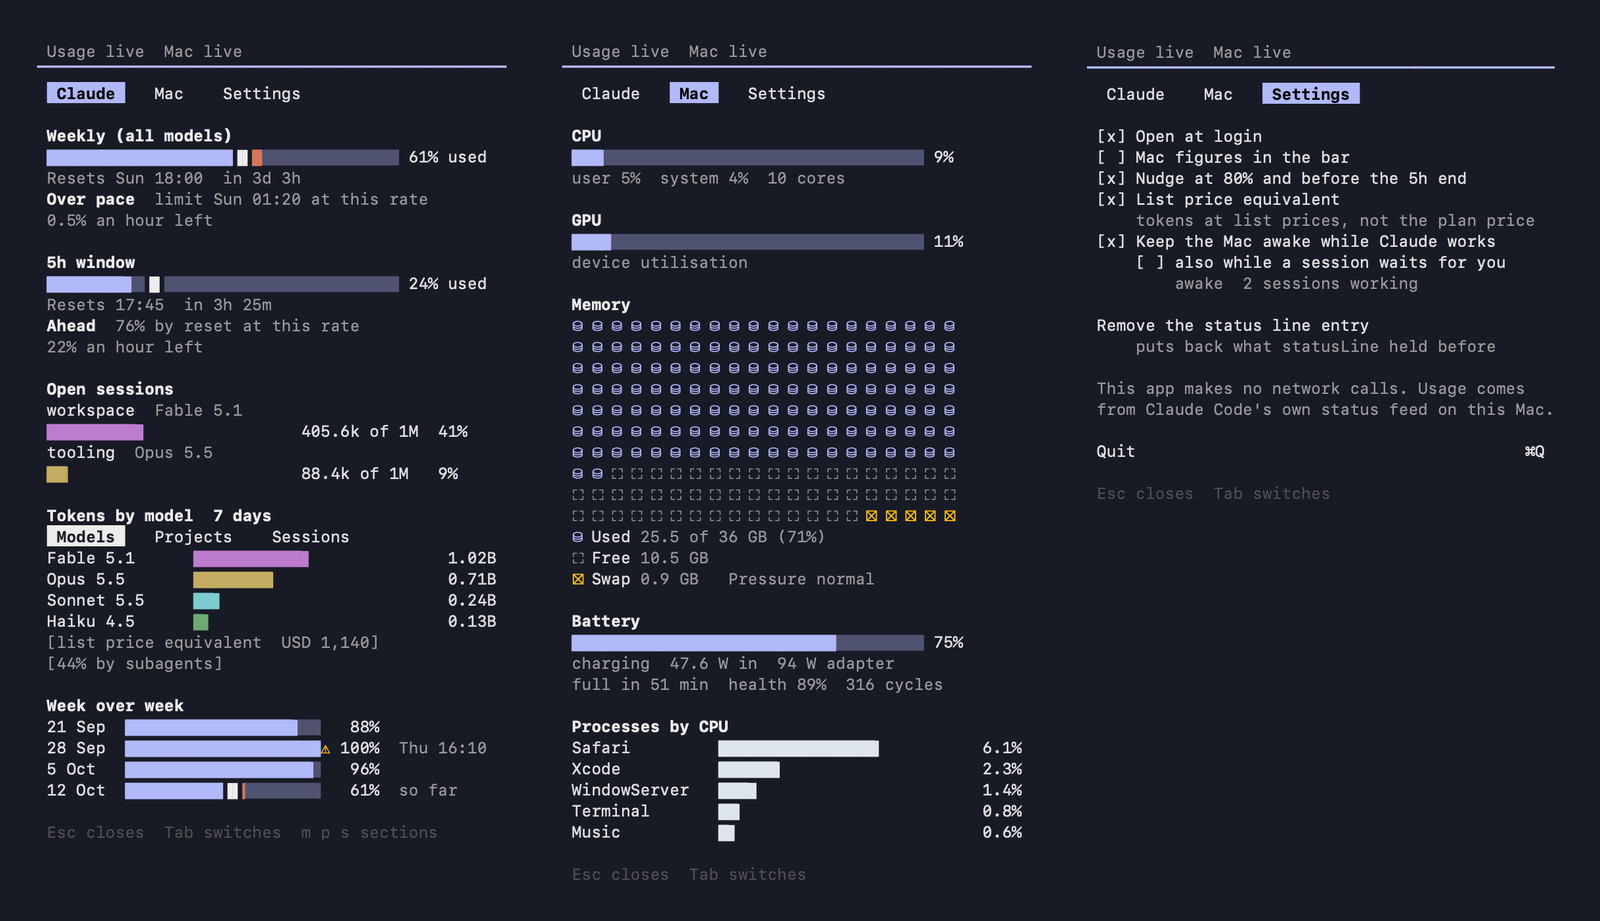
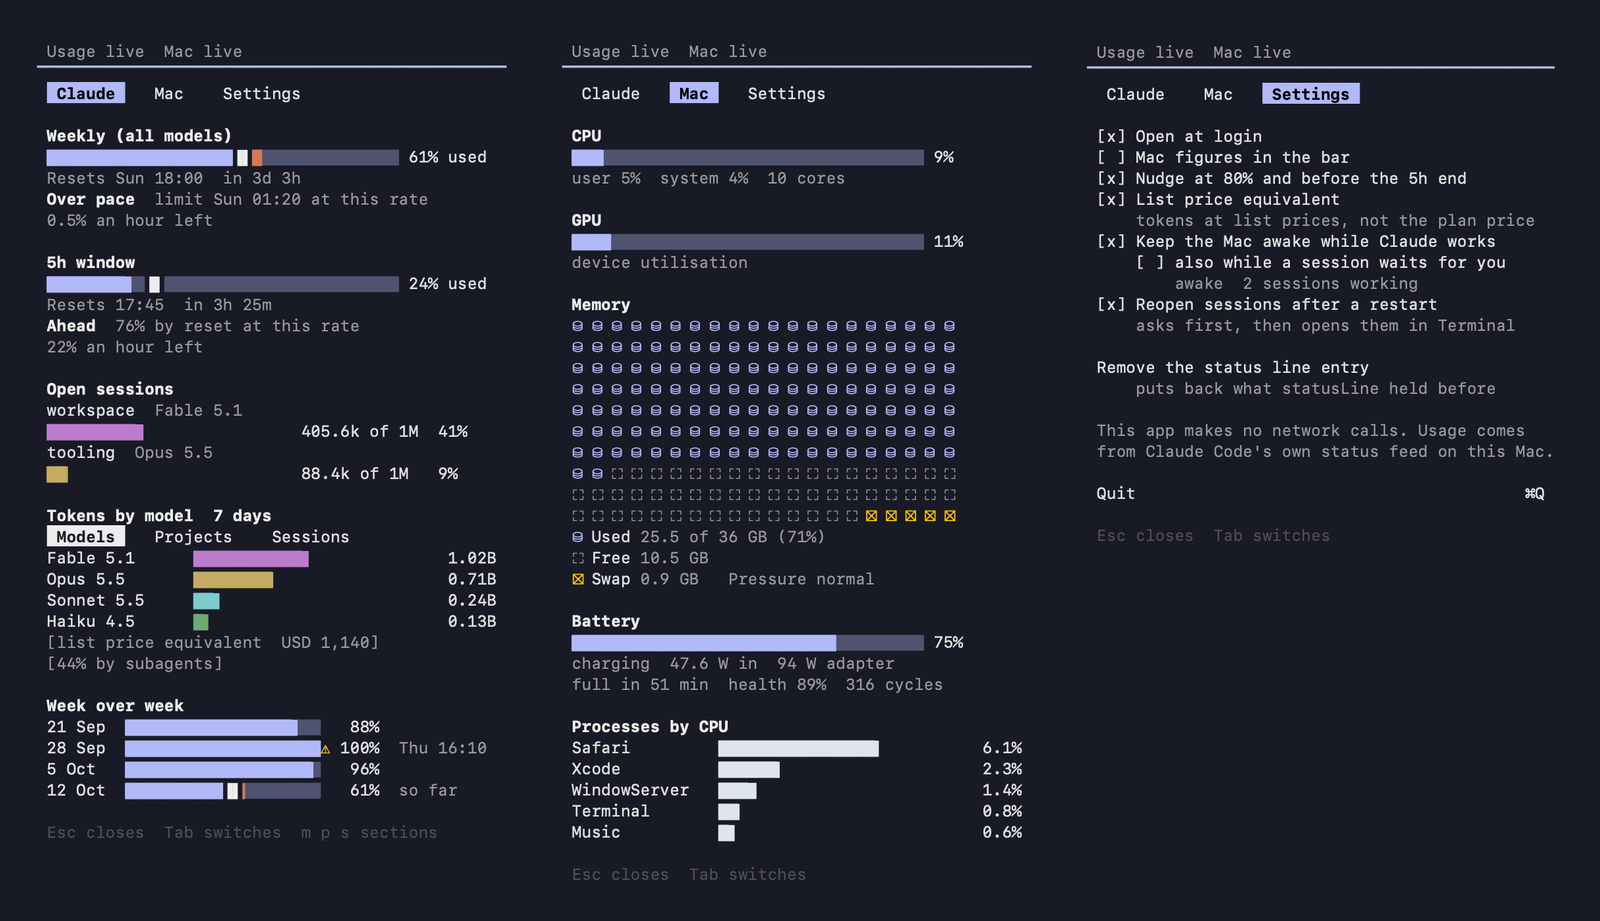
0.1.7: reopen sessions after a restart, docs

Changed region(s): [[0.6875, 0.304, 0.9688, 0.5472], [0.7812, 0.5776, 0.8125, 0.608], [0.7188, 0.5776, 0.75, 0.608]]

diff --git a/docs/spec.html b/docs/spec.html
@@ -329,11 +329,19 @@ countdown  = remaining as "in Nd Nh" or "in Nh Nm"</pre>
 <tr><td>listPriceEquivalent</td><td>bool</td><td>true</td><td>List price equivalent (second line: tokens at list prices, not the plan price)</td></tr>
 <tr><td>keepAwake</td><td>bool</td><td>false</td><td>Keep the Mac awake while Claude works</td></tr>
 <tr><td>keepAwakeWhileOpen</td><td>bool</td><td>false</td><td>also while a session waits for you (indented under keepAwake, drawn only while keepAwake is on; the note under it, only while the assertion is held: "awake  2 sessions working" or "awake  1 session open")</td></tr>
+<tr><td>restoreSessions</td><td>bool</td><td>false</td><td>Reopen sessions after a restart (second line: asks first, then opens them in Terminal)</td></tr>
 <tr><td>hookPreviousCommand</td><td>string</td><td>none</td><td>the status line command that was in settings.json before install, for uninstall; internal</td></tr>
 <tr><td>nudgedWeeklyWindow</td><td>epoch seconds</td><td>none</td><td>the resets_at of the weekly window last nudged; internal</td></tr>
 <tr><td>nudgedFiveHourWindow</td><td>epoch seconds</td><td>none</td><td>the resets_at of the 5h window last nudged; internal</td></tr>
 </table>
 <p>Stored in UserDefaults (the app's preferences plist in <code>~/Library/Preferences</code>). The week over week records and the session snapshots live in Application Support. Nothing else is stored. The Settings tab also carries the privacy sentence as text and Quit with ⌘Q.</p>
+<h3>Reopen sessions after a restart</h3>
+<ul>
+<li>Off by default. While it is on, every feed scan puts the open sessions (id, <code>workspace.project_dir</code> or <code>cwd</code>, <code>transcript_path</code>) into <code>restore.json</code>, mode 0600, written only when the set of ids changes. A session stays on the list for ten minutes after its last feed, because at a restart Terminal closes the sessions before the app quits.</li>
+<li>At launch, before the first scan: if the record's last scan is before <code>kern.boottime</code> and not more than seven days old, the sessions seen within ten minutes of that scan are offered. The notification waits 15 s after launch and until a non loopback interface is up with an address that is not self assigned (<code>getifaddrs</code>, checked every 2 s, at most 120 s), then posts "n Claude Code sessions were open before the restart" with a Reopen action; a click on the notification itself counts as Reopen.</li>
+<li>Reopen skips sessions that are open again, waits for the network the same way, then writes one script per session into a new 0700 folder in the temporary folder (file 0600, then 0700, so only you can read or run it): <code>rm -f -- "$0"</code>, <code>cd</code> to the quoted folder, <code>claude --resume</code> with the quoted id, and <code>--remote-control</code> with a plain resume as fallback when the transcript holds a <code>"type":"bridge-session"</code> line. That line is not documented by Anthropic; without it, sessions still reopen, without Remote Control. Ids must match the UUID shape and folders must exist, or no script is written. The scripts open in Terminal through <code>NSWorkspace</code>, as a double click would, so no Automation permission is asked.</li>
+<li>Turning the switch off deletes <code>restore.json</code>. Terminal only.</li>
+</ul>
 <h3>Open at login</h3>
 <ul>
 <li>The first row of Settings, "Open at login", off by default. It comes first because it is about the app itself, and the rows under it are about what the app shows and does; the keep awake rows grow and shrink, so a row after them would move.</li>
@@ -396,6 +404,7 @@ countdown  = remaining as "in Nd Nh" or "in Nh Nm"</pre>
 <li>"[x] Nudge at 80% and before the 5h end".</li>
 <li>"[x] List price equivalent", second line "tokens at list prices, not the plan price".</li>
 <li>"[ ] Keep the Mac awake while Claude works"; while it is on, the indented row "[ ] also while a session waits for you" under it; while the power assertion is held, "awake  2 sessions working" or "awake  1 session open" dim under that (section 4).</li>
+<li>"[ ] Reopen sessions after a restart", second line "asks first, then opens them in Terminal".</li>
 <li>Blank. "Install the status line entry" with "one statusLine entry in ~/.claude/settings.json" dim under it, or, once installed, "Remove the status line entry" with "puts back what statusLine held before". An error from either click follows as a third dim line.</li>
 <li>Blank. "This app makes no network calls. Usage comes" and "from Claude Code's own status feed on this Mac." dim.</li>
 <li>Blank. "Quit" with "⌘Q" right aligned.</li>
@@ -435,9 +444,9 @@ from Claude Code's own status feed on this Mac.</pre>
 
 <h2 id="packaging">17  Packaging</h2>
 <h3>Build</h3>
-<pre>scripts/build-app.sh 0.1.6   # swift build -c release, then build/tokenpanda.app: Contents/MacOS,
+<pre>scripts/build-app.sh 0.1.7   # swift build -c release, then build/tokenpanda.app: Contents/MacOS,
                              # Contents/Resources (hook.sh, AppIcon.icns), Info.plist (LSUIElement true,
-                             # CFBundleIconFile AppIcon), ad hoc codesign; then build/tokenpanda-0.1.6.zip and its SHA-256</pre>
+                             # CFBundleIconFile AppIcon), ad hoc codesign; then build/tokenpanda-0.1.7.zip and its SHA-256</pre>
 <p>Two release paths. Releases are built by path one for now; path two is written here for when the project signs with a Developer ID.</p>
 <h3>Path one: unsigned (ad hoc), own tap</h3>
 <p>Ad hoc signing does not satisfy Gatekeeper on a downloaded file, and since macOS Sequoia Control-click no longer overrides it. Apple's current page (published 2026-05-27) gives the flow, which the README repeats:</p>
@@ -466,6 +475,7 @@ from Claude Code's own status feed on this Mac.</pre>
 <li>Feed parser: the captured sample JSON (percentages as integers) and the doc example (23.5) both parse; a first call without rate_limits leaves the windows untouched; unknown keys such as <code>scratchpad_dir</code> are ignored; session_id, project_dir, model, context_window and cost are read; <code>current_usage</code> null is handled.</li>
 <li>Open sessions: a file written 9 s ago is open, 11 s ago is not, 61 s ago is deleted.</li>
 <li>Working sessions: the first snapshot counts; identical repeats every 5 s do not keep a session working; a change in any of the five figures does; the grace ends at 10 minutes; a session no longer open drops. Keep awake: the first switch alone counts working sessions only; both switches count every open session; the first switch off disables both.</li>
+<li>Session restore: offered only after a boot and within seven days; a closed session stays ten minutes; a session without a folder is not kept; the record round trips with mode 0600; the script refuses an id that is not a UUID and a folder that does not exist, quotes both, and falls back to a plain resume with Remote Control; the Remote Control line is found in a transcript.</li>
 <li>Open at login: the row against golden strings for on, off, waiting for approval (the note carries the row's action) and an error (cut to the width); the system's statuses <code>enabled</code>, <code>notRegistered</code>, <code>notFound</code> and <code>requiresApproval</code> map to on, off, off and waiting.</li>
 <li>Bar builder: 36 cells at 61% is 21 full cells and a full block (22 cells); 50 cells at 9% is four full cells and ▌; the tick at E = 55% of 36 is cell 20; the tick never exceeds N - 1; stale yields no coral.</li>
 <li>Transcript reader: a fixture transcript with one message id written three times with identical usage sums it once; a <code>&lt;synthetic&gt;</code> line is skipped; a malformed line is skipped; a file under <code>subagents/</code> and a line with <code>isSidechain</code> true count as agent share; a file under <code>memory/</code> or <code>tool-results/</code> is never opened (the enumerator is tested against a fixture tree); the sum matches the fixture's <code>cost-state</code> line within rounding.</li>

diff --git a/docs/privacy.html b/docs/privacy.html
@@ -66,6 +66,7 @@
 <li>your <code>settings.json</code>, except the one status line key the app edits when you ask it to (section 7)</li>
 <li>inside a transcript line: the message content, the tool results, attachments, snapshots and the account ids</li>
 </ul>
+<p>One exception, only with "Reopen sessions after a restart" on and only when you click Reopen: the app looks in each offered session's transcript for the line Claude Code writes when Remote Control was on (<code>"type":"bridge-session"</code>), to know whether to start that session with Remote Control again. It checks that the line is there and reads nothing from it.</p>
 <p>Two things Claude Code shows in its own usage screen are not in the feed and not in the transcripts, so the app does not show them and does not try to work them out: the breakdown of a session's context by category (messages, system tools, memory files, skills, MCP servers) and the token count per MCP tool. Those are computed inside Claude Code.</p>
 <p>The app never reads the Keychain. It never reads the Claude Code credential item, a token, a cookie or a session key. It never asks you to sign in.</p>
 
@@ -76,11 +77,14 @@
 <li><code>~/Library/Application Support/dev.tokenpanda.app/statusline-before.json</code>: your <code>statusLine</code> entry as it was before the install, so removing the hook can put it back exactly; deleted on removal</li>
 <li><code>~/Library/Application Support/dev.tokenpanda.app/limits.json</code>: the last two plan windows (used percent and reset time) and the time they were read, so the figures outlive the session files; no path, no model, no session id</li>
 <li><code>~/Library/Application Support/dev.tokenpanda.app/weeks.json</code>: four small records of past weekly windows, for the week over week rows</li>
-<li>your preferences (five switches and two timestamps the nudges use) in the app's preferences file under <code>~/Library/Preferences</code></li>
+<li><code>~/Library/Application Support/dev.tokenpanda.app/restore.json</code>, only with "Reopen sessions after a restart" on: the open sessions' ids, folders and transcript paths and when each was last seen, readable only by you; deleted when you turn the switch off</li>
+<li>when you click Reopen: one small script per session in a private folder in your temporary folder, readable only by you, which Terminal runs and which deletes itself as it starts</li>
+<li>your preferences (six switches and two timestamps the nudges use) in the app's preferences file under <code>~/Library/Preferences</code></li>
 </ul>
 <p>No log file. No cache of transcripts. No copy of anything you wrote. If installing or removing the hook fails, the error is shown in Settings and written to the macOS unified log, with the message marked private.</p>
 <p>With "Keep the Mac awake while Claude works" on, the app holds one power assertion against idle sleep, and only while a Claude Code session is working, which means its figures moved in the last ten minutes. With the second switch under it, "also while a session waits for you", it holds the same one assertion while any session is open, idle ones too, so a session stays reachable through Remote Control from the phone. It writes no file for this; <code>pmset -g assertions</code> in Terminal shows it as "tokenpanda: Claude Code is working" or "tokenpanda: a Claude Code session is open" while it is held. The display may still sleep, and a closed lid on battery still sleeps the Mac: this keeps it from idle sleep only.</p>
 <p>With "Open at login" on, the app asks macOS to open it at login through the system's own login item service (<code>SMAppService</code>), only when you click the row. The app writes no file for this and keeps no setting of its own: macOS keeps the record, System Settings, General, Login Items lists it, and you can remove it there. Clicking the row again removes it.</p>
+<p>With "Reopen sessions after a restart" on, the app notes which Claude Code sessions are open, from the same status line feed, and keeps a session on the list for ten minutes after its feed stops, because at a restart Terminal closes the sessions before the app quits. After the Mac starts again, one notification says how many were open, once the Mac has a network address (the app reads the network interfaces' state; it opens no connection). Nothing starts on its own. Only a click on Reopen starts Terminal, with one window per session that is not open already: <code>cd</code> into the session's folder, then <code>claude --resume</code> with the session id, and <code>--remote-control</code> for sessions that had it. Session ids are checked to be ids and folders to exist before anything is written, and both are quoted for the shell. Terminal opens the scripts the same way a double click would, so the app needs no permission to control Terminal. The steps (how many sessions were offered and reopened, no ids or paths) go to the macOS unified log.</p>
 
 <h2 id="network">5  What leaves your Mac</h2>
 <p>Nothing. The app has no network code. It does not check for updates, does not fetch prices, does not send crash reports, does not send usage statistics, and does not call any Anthropic endpoint. The prices it uses for the "list price equivalent" figure are a table inside the app, updated with releases.</p>
@@ -101,6 +105,7 @@
 <li>Open the sessions folder in Application Support and read a snapshot file: it is the status line object Claude Code produced, as is.</li>
 <li>Open <code>~/.claude/settings.json</code> and read the <code>statusLine</code> entry: one script path and a refresh interval.</li>
 <li>Open System Settings, General, Login Items: the app is listed there only while Open at login is on.</li>
+<li>Open <code>restore.json</code> in Application Support while Reopen sessions is on: ids, folders, transcript paths and times, nothing else.</li>
 <li>Run <code>pmset -g assertions</code>: the app appears there only while keep awake is on and a session works, or with the second switch, while a session is open.</li>
 </ul>
 

diff --git a/Sources/App/Controller.swift b/Sources/App/Controller.swift
@@ -2,7 +2,6 @@
 // SPDX-License-Identifier: MIT
 import AppKit
 import IOKit.pwr_mgt
-import Network
 import os
 import ServiceManagement
 import Text
@@ -337,21 +336,35 @@ final class Controller: NSObject, NSApplicationDelegate, NSPopoverDelegate {
         }
     }
 
-    /// Returns once the Mac has a usable network path, or after the timeout. NWPathMonitor reads the interfaces' state;
-    /// it opens no connection.
-    static func waitForNetwork(timeout: TimeInterval) async {
-        let monitor = NWPathMonitor()
-        let online: Bool = await withCheckedContinuation { cont in
-            let once = OSAllocatedUnfairLock(initialState: false)
-            let finish: @Sendable (Bool) -> Void = { ok in
-                if once.withLock({ done in defer { done = true }; return !done }) { cont.resume(returning: ok) }
+    /// Whether an interface other than loopback is up, running and has an address, read with getifaddrs.
+    /// It reads the interfaces' state and opens no connection.
+    static func hasNetworkAddress() -> Bool {
+        var list: UnsafeMutablePointer<ifaddrs>?
+        guard getifaddrs(&list) == 0, let first = list else { return false }
+        defer { freeifaddrs(list) }
+        for p in sequence(first: first, next: { $0.pointee.ifa_next }) {
+            let flags = Int32(p.pointee.ifa_flags)
+            guard flags & IFF_UP != 0, flags & IFF_RUNNING != 0, flags & IFF_LOOPBACK == 0, let addr = p.pointee.ifa_addr else { continue }
+            let family = Int32(addr.pointee.sa_family)
+            if family == AF_INET {
+                // a self assigned address (169.254.x.x) means no network answered
+                let v4 = addr.withMemoryRebound(to: sockaddr_in.self, capacity: 1) { UInt32(bigEndian: $0.pointee.sin_addr.s_addr) }
+                if v4 >> 16 != 0xA9FE { return true }
+                continue
             }
-            monitor.pathUpdateHandler = { path in if path.status == .satisfied { finish(true) } }
-            monitor.start(queue: DispatchQueue(label: "dev.tokenpanda.network", qos: .utility))
-            DispatchQueue.global(qos: .utility).asyncAfter(deadline: .now() + timeout) { finish(false) }
+            if family == AF_INET6 {
+                // a link local address (fe80::) alone does not reach anything
+                let v6 = addr.withMemoryRebound(to: sockaddr_in6.self, capacity: 1) { $0.pointee.sin6_addr }
+                if !(v6.__u6_addr.__u6_addr8.0 == 0xfe && v6.__u6_addr.__u6_addr8.1 & 0xc0 == 0x80) { return true }
+            }
         }
-        _ = online
-        monitor.cancel()
+        return false
+    }
+
+    /// Returns once the Mac has a network address, checked every 2 s, or after the timeout.
+    static func waitForNetwork(timeout: TimeInterval) async {
+        let end = Date().addingTimeInterval(timeout)
+        while !hasNetworkAddress(), Date() < end { try? await Task.sleep(for: .seconds(2)) }
     }
 
     /// Each scan while the setting is on: the open sessions go into the record, written only when the set of ids changes.

diff --git a/docs/styleguide.html b/docs/styleguide.html
@@ -296,7 +296,7 @@
 <div class="stage" style="max-width:none"><div class="cols">
 <div id="c-pop0"></div><div id="c-pop1"></div><div id="c-pop2"></div>
 </div></div>
-<p class="use">Order on the Claude tab: header, blank, weekly section, blank, 5h section, blank, open sessions, blank, the token section title with its switch and rows and chips, blank, week over week, blank, the key hints in quiet. The Mac tab: CPU bar, GPU bar, memory grid, battery bar with its two dim lines, processes by CPU. Settings: Open at login, Mac figures in the bar, the nudges, the list price equivalent, Keep the Mac awake with its indented second row while it is on, then the status line entry row, the privacy sentence, Quit. The foot line names m p s on the Claude tab only, where those keys work.</p>
+<p class="use">Order on the Claude tab: header, blank, weekly section, blank, 5h section, blank, open sessions, blank, the token section title with its switch and rows and chips, blank, week over week, blank, the key hints in quiet. The Mac tab: CPU bar, GPU bar, memory grid, battery bar with its two dim lines, processes by CPU. Settings: Open at login, Mac figures in the bar, the nudges, the list price equivalent, Keep the Mac awake with its indented second row while it is on, Reopen sessions after a restart, then the status line entry row, the privacy sentence, Quit. The foot line names m p s on the Claude tab only, where those keys work.</p>
 
 <h2 id="copy">7  Copy rules</h2>
 <ul>

diff --git a/docs/docs.js b/docs/docs.js
@@ -236,6 +236,7 @@ function settingsTab(st) {
     + cbRow('List price equivalent', st.price, 'tokens at list prices, not the plan price')
     + cbRow('Keep the Mac awake while Claude works', !!st.awake)
     + (st.awake ? cbRow('also while a session waits for you', !!st.awakeOpen, null, {indent: '     '}) : '')
+    + cbRow('Reopen sessions after a restart', !!st.restore, 'asks first, then opens them in Terminal')
     + BL
     + hookRow(st.hook !== false)
     + BL

diff --git a/Sources/UI/Fixtures.swift b/Sources/UI/Fixtures.swift
@@ -117,6 +117,7 @@ public enum Fixtures {
         var settings = input(tab: 2)
         settings.keepAwake = true; settings.awake = .working(2)   // the sample's two open sessions, both working
         settings.login = .on
+        settings.restoreSessions = true
         return [
             ("claude-overpace", input(weekly: 61)),
             ("claude-ahead", input(weekly: 45)),

diff --git a/README.md b/README.md
@@ -19,6 +19,7 @@ Every time I looked at a usage percentage I did the same sum in my head. It is T
 - The Mac on a second tab: CPU, GPU, memory with pressure and swap, battery, the busiest processes.
 - A switch in Settings, off by default, keeps the Mac from idle sleep while a Claude Code session is working, and says so while it does. A second switch under it keeps it awake while any session is open, idle ones too, so a session stays reachable through Remote Control from the phone. It prevents idle sleep only: a closed lid on battery still sleeps the Mac.
 - Open at login, the first row in Settings, off by default. The box shows what macOS says, so if you remove the app in System Settings, General, Login Items, it shows that too.
+- Reopen sessions after a restart, a switch in Settings, off by default. When the Mac comes back, one notification says how many Claude Code sessions were open before. Reopen opens each one in Terminal with `claude --resume`, and with Remote Control again for sessions that had it. It waits for the network first, so Remote Control can connect. One thing tokenpanda cannot stop: if "Reopen windows when logging back in" is ticked in the macOS restart dialog, macOS also brings back Terminal's old windows, empty. Untick it once, and only the reopened sessions come back.
 
 <img src="docs/shots/item-states.png" width="609" alt="The menu bar item in five states: ahead, stale, cpu warning, no feed yet, closed">
 
@@ -72,7 +73,7 @@ Nothing leaves your Mac. In five rules:
 4. It touches `~/.claude/settings.json` only when you click, and only its `statusLine` key. "Remove the status line entry" in Settings puts your previous entry back exactly.
 5. Check it. The source is public; search it for URLSession. Run nettop on the app for an hour: zero connections.
 
-With keep awake on, the app holds a power assertion only while a session is working, or with the second switch while a session is open, and `pmset -g assertions` shows it. With Open at login on, macOS lists the app in System Settings, General, Login Items; the app keeps no setting of its own for it.
+With keep awake on, the app holds a power assertion only while a session is working, or with the second switch while a session is open, and `pmset -g assertions` shows it. With Open at login on, macOS lists the app in System Settings, General, Login Items; the app keeps no setting of its own for it. With Reopen sessions on, the app keeps a small list of the open sessions (id, folder, transcript path) in Application Support, and starts Terminal only when you click Reopen.
 
 The [privacy page](docs/privacy.html) names every file it reads and writes. Anthropic documents the status line feed as input for any script you configure. It has written nothing either way about a local tool reading the transcripts on your own Mac. That is silence, not permission, and I would rather say so than claim more.
 
@@ -83,7 +84,7 @@ You need a Mac on macOS 14 or later with the Command Line Tools or Xcode. Swift 
 ```sh
 swift build
 swift test -Xswiftc -plugin-path -Xswiftc /Library/Developer/CommandLineTools/usr/lib/swift/host/plugins/testing
-scripts/build-app.sh 0.1.6
+scripts/build-app.sh 0.1.7
 open build/tokenpanda.app
 ```
 

diff --git a/CHANGELOG.md b/CHANGELOG.md
@@ -1,5 +1,9 @@
 # Changelog
 
+## 0.1.7, 2026-10-22
+
+- Settings: Reopen sessions after a restart, off by default. After the Mac starts again, one notification says how many Claude Code sessions were open before. Reopen opens each in Terminal with `claude --resume`, and with Remote Control again for sessions that had it. It waits until the Mac has a network address, so Remote Control can connect, and skips sessions that are open already. Nothing starts without the click. The app keeps a small list of the open sessions while the switch is on and deletes it when you turn it off.
+
 ## 0.1.6, 2026-10-21
 
 - Settings: Open at login, the first row, off by default. It uses the macOS login item service and stores nothing of its own, so the box always shows what macOS says, also after you remove the app in System Settings, General, Login Items. If macOS waits for your OK, the row says so and a click opens Login Items; if it refuses, the row says why.
